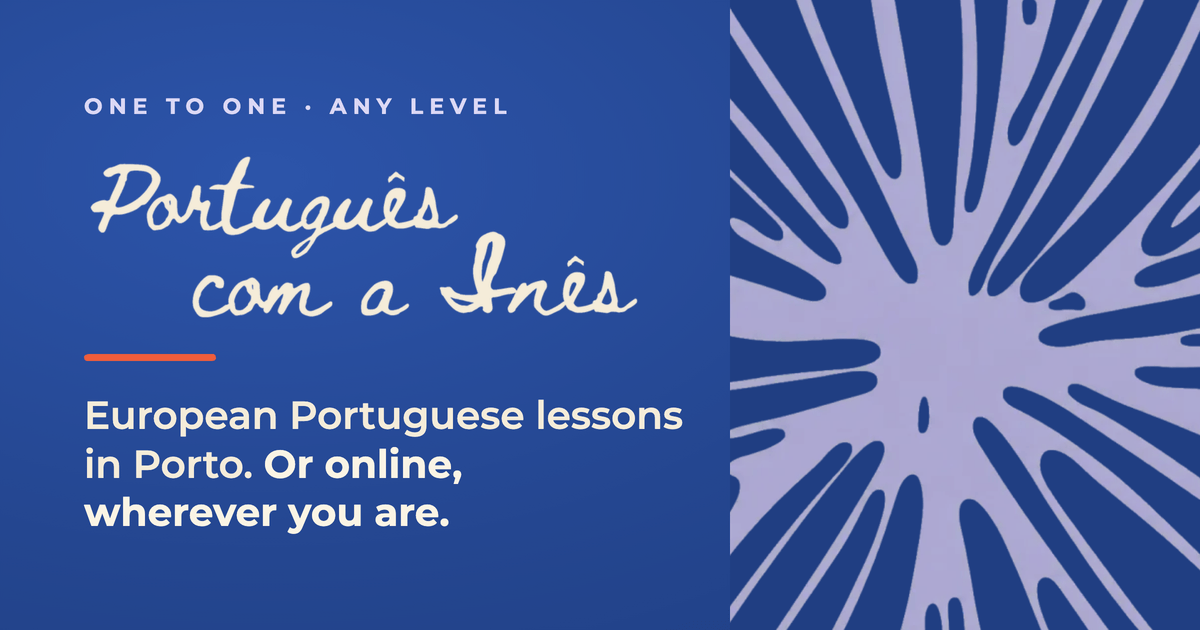
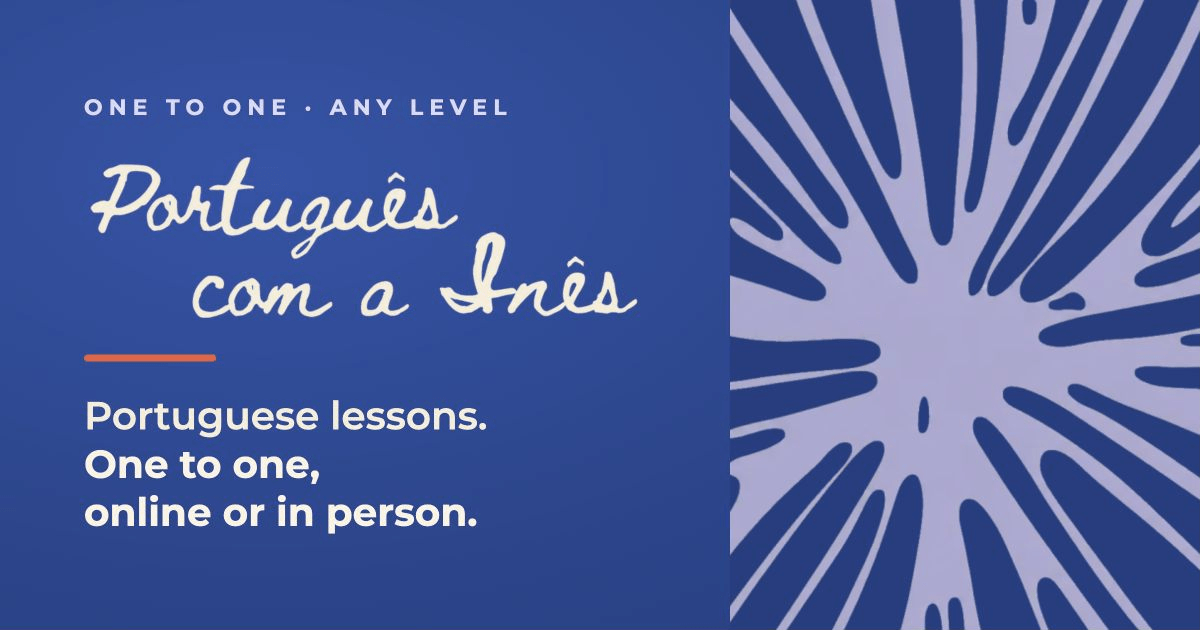
Simplify Portuguese lesson wording and booking confirmation layout (#93)

diff --git a/src/components/BookingCalendar.tsx b/src/components/BookingCalendar.tsx
@@ -2755,72 +2755,78 @@ export function BookingCalendar({ initialManageToken = "", initialLessonsView = 
                     />
                   ) : null}
 
-                  <label>
-                    <span>
-                      <MessageSquareText size={16} aria-hidden="true" />
-                      Anything Inês should know <em>(optional)</em>
-                    </span>
-                    <textarea
-                      onChange={(event) => setForm((current) => ({ ...current, notes: event.target.value }))}
-                      rows={3}
-                      value={form.notes}
-                    />
-                  </label>
+                  <div className="booking-confirmation-columns">
+                    <label className="booking-confirmation-notes">
+                      <span>
+                        <MessageSquareText size={16} aria-hidden="true" />
+                        Add a note <em>(optional)</em>
+                      </span>
+                      <textarea
+                        onChange={(event) => setForm((current) => ({ ...current, notes: event.target.value }))}
+                        rows={3}
+                        value={form.notes}
+                      />
+                    </label>
 
-                  {submitError ? (
-                    <div className="booking-alert" role="alert">
-                      <AlertCircle size={18} aria-hidden="true" />
-                      <p>{submitError}</p>
-                    </div>
-                  ) : null}
+                    <div className="booking-confirmation-payment">
+                      {submitError ? (
+                        <div className="booking-alert" role="alert">
+                          <AlertCircle size={18} aria-hidden="true" />
+                          <p>{submitError}</p>
+                        </div>
+                      ) : null}
 
-                  {paymentConfigurationError ? (
-                    <div className="booking-alert" role="alert">
-                      <AlertCircle size={18} aria-hidden="true" />
-                      <p>{paymentConfigurationError}</p>
-                    </div>
-                  ) : null}
+                      {paymentConfigurationError ? (
+                        <div className="booking-alert" role="alert">
+                          <AlertCircle size={18} aria-hidden="true" />
+                          <p>{paymentConfigurationError}</p>
+                        </div>
+                      ) : null}
 
-                  <p className="booking-form-note" id="booking-payment-summary">
-                    {postpay
-                      ? "Nothing is charged now. Your saved card is charged automatically after each lesson. Move or cancel free until the day before; on the day, it costs €5. A recorded no-show costs €5 instead of the lesson price, plus any earlier change fee. Porto time applies."
-                      : `Pay Inês on the lesson day. Move or cancel free until the day before; on the day it costs ${formatMoneyCents(SAME_DAY_RESCHEDULE_FEE_CENTS)}.`}
-                    {form.repeat === null ? " Ongoing lessons repeat until you stop them in your calendar." : ""}
-                  </p>
+                      <p className="booking-form-note" id="booking-payment-summary">
+                        {postpay
+                          ? "Nothing to pay now. Your card is charged after each lesson. Same-day changes cost €5. A no-show costs €5 instead of the lesson price."
+                          : `Pay Inês on the lesson day. Same-day changes cost ${formatMoneyCents(SAME_DAY_RESCHEDULE_FEE_CENTS)}.`}
+                      </p>
+                      <p className="booking-form-note booking-confirmation-payment__detail" id="booking-payment-detail">
+                        Changes are free until the day before (Porto time).{postpay ? " Any earlier €5 change fee still applies." : ""}
+                        {form.repeat === null ? " Ongoing lessons repeat until you stop them." : ""}
+                      </p>
 
-                  <div className="booking-agreement">
-                    {needsPaymentConsent ? (
-                      <button
-                        className="booking-agreement__button"
-                        type="button"
-                        aria-pressed={paymentConsent}
-                        aria-describedby="booking-payment-summary booking-agreement-note"
-                        onClick={() => setPaymentConsent((current) => !current)}
-                      >
-                        {paymentConsent ? <CheckCircle2 size={20} aria-hidden="true" /> : <Circle size={20} aria-hidden="true" />}
-                        Agree to terms &amp; privacy
+                      <div className="booking-agreement">
+                        {needsPaymentConsent ? (
+                          <button
+                            className="booking-agreement__button"
+                            type="button"
+                            aria-pressed={paymentConsent}
+                            aria-describedby="booking-payment-summary booking-payment-detail booking-agreement-note"
+                            onClick={() => setPaymentConsent((current) => !current)}
+                          >
+                            {paymentConsent ? <CheckCircle2 size={20} aria-hidden="true" /> : <Circle size={20} aria-hidden="true" />}
+                            Agree to terms &amp; privacy
+                          </button>
+                        ) : null}
+                        <a href="#terms-privacy">Read terms &amp; privacy</a>
+                      </div>
+                      {needsPaymentConsent ? (
+                        <p className="booking-form-note booking-agreement__note" id="booking-agreement-note">
+                          I authorise these charges and acknowledge the privacy notice.
+                        </p>
+                      ) : null}
+
+                      {/* The final action names both the selection and the obligation
+                          to pay, even though payment happens after the lesson. */}
+                      <button className="button button--coral booking-confirm-button" disabled={!canSubmit} type="submit">
+                        {submitting
+                          ? "Booking…"
+                          : form.repeat === "once"
+                            ? bookingChoices.length > 1 ? `Book ${bookingChoices.length} lessons & agree to pay` : "Book lesson & agree to pay"
+                            : seriesPreview
+                              ? `Book ${seriesPreview.bookable.length === 1 ? "lesson" : `${seriesPreview.bookable.length} lessons`} & agree to pay`
+                              : "Book lessons & agree to pay"}
                       </button>
-                    ) : null}
-                    <a href="#terms-privacy">Read terms &amp; privacy</a>
+                    </div>
                   </div>
-                  {needsPaymentConsent ? (
-                    <p className="booking-form-note booking-agreement__note" id="booking-agreement-note">
-                      Agreeing authorises these card charges and acknowledges the privacy notice.
-                    </p>
-                  ) : null}
-
-                  {/* The final action names both the selection and the obligation
-                      to pay, even though payment happens after the lesson. */}
-                  <button className="button button--coral booking-confirm-button" disabled={!canSubmit} type="submit">
-                    {submitting
-                      ? "Booking…"
-                      : form.repeat === "once"
-                        ? bookingChoices.length > 1 ? `Book ${bookingChoices.length} lessons & agree to pay` : "Book lesson & agree to pay"
-                        : seriesPreview
-                          ? `Book ${seriesPreview.bookable.length === 1 ? "lesson" : `${seriesPreview.bookable.length} lessons`} & agree to pay`
-                          : "Book lessons & agree to pay"}
-                  </button>
-
                 </form>
               )}
             </div>

diff --git a/src/app/layout.tsx b/src/app/layout.tsx
@@ -36,21 +36,21 @@ const montserrat = Montserrat({
 // og:image against localhost and the preview comes back blank. This is the
 // canonical production domain — the Portuguese-spelling domain redirects to it.
 const SITE_URL = "https://portuguesewithines.com";
-const shareDescription = "One-to-one European Portuguese lessons in Porto and online. Any level.";
+const shareDescription = "One-to-one Portuguese lessons, online or in person. Any level.";
 const shareImage = {
   url: "/og.png",
   width: 1200,
   height: 630,
-  alt: "Português com a Inês: European Portuguese lessons in Porto or online"
+  alt: "Português com a Inês: one-to-one Portuguese lessons"
 };
 
 export const metadata: Metadata = {
   metadataBase: new URL(SITE_URL),
-  title: "Português com a Inês | Portuguese lessons in Porto",
+  title: "Português com a Inês | Portuguese Lessons",
   description:
-    "One-to-one European Portuguese lessons in Porto and online, with a native speaker from Porto. Any level, no fixed syllabus.",
+    "One-to-one Portuguese lessons with Inês, online or in person. Any level, no fixed syllabus.",
   openGraph: {
-    title: "Português com a Inês | Portuguese lessons in Porto",
+    title: "Português com a Inês | Portuguese Lessons",
     description: shareDescription,
     url: "/",
     siteName: "Português com a Inês",
@@ -60,7 +60,7 @@ export const metadata: Metadata = {
   },
   twitter: {
     card: "summary_large_image",
-    title: "Português com a Inês | Portuguese lessons in Porto",
+    title: "Português com a Inês | Portuguese Lessons",
     description: shareDescription,
     images: [shareImage]
   }

diff --git a/src/app/globals.css b/src/app/globals.css
@@ -3603,6 +3603,50 @@ html.booking-transitioning .booking-confirmation-stage {
   margin-top: 0;
 }
 
+.booking-confirmation-columns {
+  display: grid;
+  grid-template-columns: minmax(0, 1fr);
+  gap: 1.3rem;
+  align-items: start;
+}
+
+.booking-confirmation-columns > .booking-confirmation-notes {
+  display: flex;
+  flex-direction: column;
+  min-width: 0;
+  margin: 0;
+}
+
+.booking-confirmation-notes textarea {
+  min-height: 8rem;
+}
+
+.booking-confirmation-payment {
+  display: grid;
+  gap: 0.7rem;
+  min-width: 0;
+}
+
+.booking-confirmation-payment > .booking-form-note,
+.booking-confirmation-payment > .booking-agreement {
+  margin-top: 0;
+}
+
+.booking-confirmation-payment > .booking-confirmation-payment__detail {
+  font-size: 0.74rem;
+}
+
+@container booking (min-width: 720px) {
+  .booking-confirmation-columns {
+    grid-template-columns: minmax(0, 1fr) minmax(0, 1fr);
+    gap: clamp(1.5rem, 3vw, 3rem);
+  }
+
+  .booking-confirmation-notes textarea {
+    min-height: 13rem;
+  }
+}
+
 @container booking (max-width: 430px) {
   .lesson-choice {
     grid-template-columns: 1fr;

diff --git a/src/app/faq/page.tsx b/src/app/faq/page.tsx
@@ -95,14 +95,9 @@ const faqSections = [
           "It depends on your starting point and how much you practise. We’ll begin with simple conversations and build from there."
       },
       {
-        question: "Is this European or Brazilian Portuguese?",
+        question: "Can I use the Portuguese I already know?",
         answer:
-          "European Portuguese, as spoken here in Portugal."
-      },
-      {
-        question: "I learned Brazilian Portuguese. Is that a problem?",
-        answer:
-          "Not at all. What you’ve learned is a useful starting point. I can help you get familiar with the pronunciation and vocabulary used in Portugal."
+          "Of course. Whatever variety you’ve learned, we’ll build on it and work on the pronunciation, vocabulary and conversations that help you most."
       },
       {
         question: "Can explanations be in English?",

diff --git a/src/app/lessons/page.tsx b/src/app/lessons/page.tsx
@@ -7,7 +7,7 @@ import { lessonProducts } from "@/lib/lesson-products";
 
 export const metadata: Metadata = {
   title: "Lessons | Português com a Inês",
-  description: "Prices for one-to-one European Portuguese lessons, online or in Porto."
+  description: "Prices for one-to-one Portuguese lessons, online or in person."
 };
 
 export default function LessonsPage() {
@@ -39,7 +39,7 @@ export default function LessonsPage() {
 
         <section className="lesson-programme" aria-labelledby="programme-title">
           <p className="lesson-programme__intro" id="programme-title">
-            One to one, in Porto or online. An hour, or an hour and a half if you want longer.
+            One to one, online or in person. An hour, or an hour and a half if you want longer.
           </p>
           <div className="lesson-programme__grid">
             {lessonProducts.map((product) => (

diff --git a/src/app/page.tsx b/src/app/page.tsx
@@ -30,11 +30,11 @@ export default function Home() {
         <section className="home-hero" aria-labelledby="home-title">
           <div className="home-hero__copy">
             <h1 id="home-title">
-              <span>European Portuguese</span>
-              <span className="home-title__script">lessons.</span>
+              <span>Portuguese</span>
+              <span className="home-title__script">Lessons</span>
             </h1>
             <div className="editorial-rule" aria-hidden="true" />
-            <p>One to one in Porto.<br />Or online, wherever you are.</p>
+            <p>One to one, at your pace.<br />Online or in person.</p>
             <div className="home-hero__actions">
               <Link className="button button--coral" href="/book/?view=book">
                 Book a lesson

diff --git a/src/components/BookingFlow.tsx b/src/components/BookingFlow.tsx
@@ -46,9 +46,7 @@ export function BookingFlow({ initialView = "book" }: { initialView?: BookingVie
             <h1 id="booking-title">
               Your{" "}
               <br />
-              Portuguese{" "}
-              <br />
-              lessons
+              Lessons
             </h1>
             <div className="editorial-rule" aria-hidden="true" />
             <ul className="booking-intro__points">

diff --git a/src/app/approach/page.tsx b/src/app/approach/page.tsx
@@ -17,7 +17,7 @@ const approachItems = [
   },
   {
     title: "Whatever you’re here for",
-    body: "Moving over, work, an exam, or just talking to your neighbours. You set the target.",
+    body: "Work, travel, an exam, or just talking to your neighbours. You set the target.",
     asset: "/visuals/v2-splats/built-around-you-splat-v2.svg"
   },
   {

diff --git a/src/app/book/page.tsx b/src/app/book/page.tsx
@@ -5,7 +5,7 @@ import { BOOKING_API_BASE_URL } from "@/lib/config";
 
 export const metadata: Metadata = {
   title: "Booking | Português com a Inês",
-  description: "Book a one-to-one European Portuguese lesson in Porto or online."
+  description: "Book a one-to-one Portuguese lesson, online or in person."
 };
 
 /**

diff --git a/design/README.md b/design/README.md
@@ -131,8 +131,8 @@ the same identity or action:
   intentional sign-off, rather than introducing another headline;
 - each page has one dominant action in its content. A later section must not
   repeat the same call to action simply to fill a closing band;
-- on Home, the display heading is `European Portuguese lessons.` and the
-  supporting line locates them in Porto and online. `Book a lesson` appears
+- on Home, the display heading is `Portuguese Lessons` and the
+  supporting line describes one-to-one lessons, online or in person. `Book a lesson` appears
   once. The quieter `How I teach` and `Lessons and prices` routes sit with that
   introduction rather than occupying a second strip beneath the hero;
 - Approach, Lessons, FAQ, and Booking follow the same hierarchy: the brand
@@ -234,6 +234,19 @@ usual lesson starts and days off; avoid a wall of administration forms.
 - Put manual lesson entry last, collapsed under `Add a lesson for a student`.
   It is a backup for a lesson arranged elsewhere; the ordinary student booking
   service remains the primary route. Include online/in-Porto location.
+
+## Wording and confirmation — 13 September 2026
+
+Use `Portuguese Lessons` on the home page and `Your Lessons` in booking.
+Marketing copy describes Portuguese lessons without repeated European/Portugal
+positioning. Retain actual location choices, addresses, qualifications and Porto
+time where they help someone attend a lesson or understand a deadline.
+
+On a wide booking workspace, place the optional notes box on the left and the
+payment summary, agreement and final action on the right. Stack them in that
+order on narrow screens. Keep prices visible with the chosen lessons. The short
+payment summary explains payment after each lesson and €5 rules, with the full
+terms available by link.
 
 ## Motion direction
 

diff --git a/README.md b/README.md
@@ -1,6 +1,6 @@
 # Português com a Inês
 
-The production website for Inês Dias Baía’s one-to-one European Portuguese
+The production website for Inês Dias Baía’s one-to-one Portuguese
 lessons, online or in Porto.
 
 The approved dark-blue, lilac, cream, and splatty direction is implemented as
